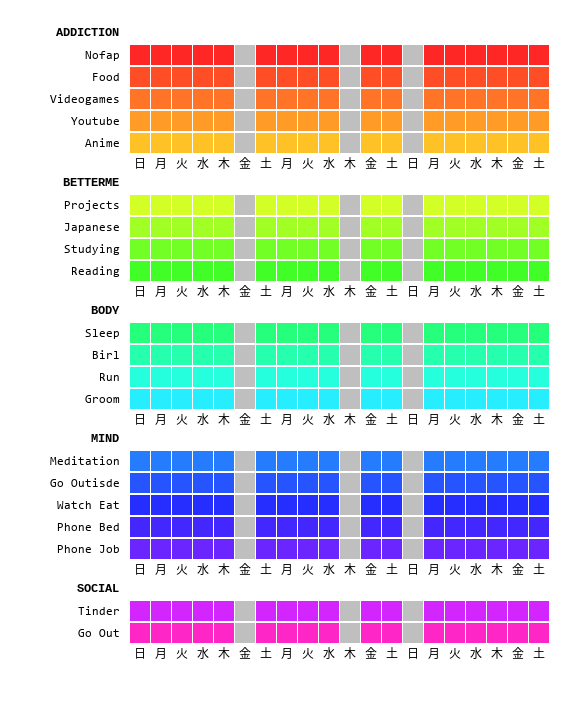
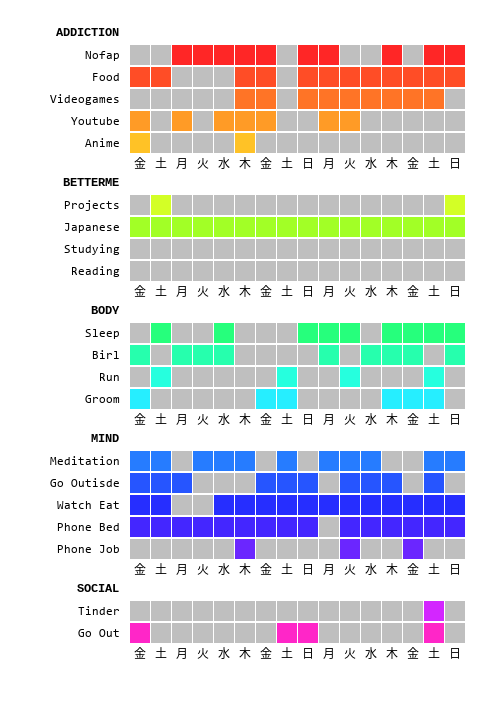
image reflecting data

Changed region(s): [[0.0916, 0.0299, 0.9776, 0.9559]]

diff --git a/imggen.py b/imggen.py
@@ -3,6 +3,7 @@ from PIL import Image, ImageFont, ImageDraw
 import matplotlib.colors as clr
 
 from utils import FlattenList, AlignRight, CycleIndex
+from core import GetHeaderData, GetDateArray, GetFailIndexesList, GetExpectedValue
 
 fontFamilies = {
     "consolas": r"assets\fonts\consola.ttf",
@@ -54,12 +55,11 @@ def GenerateYPositions(initialPosition: tuple, length: int, spacing: int, number
     return positions, positions[-1][1] + length + spacing - initialPosition[1]
 
 def WriteFooter(image, position: tuple, squareSize: int, squareBorder: int, squares: int, latestDate: str):
-    latestDate = '2022-06-04'
+    latestDate = '2022-06-05'
     # daysOfTheWeek = "STQQSSD"
     # daysOfTheWeek = "MTWTFSS"
     daysOfTheWeek = "月火水木金土日"
     todaysIndex = date.fromisoformat(latestDate).weekday()
-    print("todaysIndex", todaysIndex)
     for s in range(squares):
         Write(image,
               (position[0] + s * (squareSize + squareBorder), position[1]),
@@ -67,7 +67,7 @@ def WriteFooter(image, position: tuple, squareSize: int, squareBorder: int, squa
               (0, 0, 0),
               "noto")
 
-def WriteAll(image, categories: list, headerList: list, position: tuple, squares: int, sqrSize: int, sqrBorder: int, maxXDelta: int,
+def WriteAll(image, categories: list, headerList: list, frequencies: list, data, position: tuple, squares: int, sqrSize: int, sqrBorder: int, maxXDelta: int,
              textSquaresXSpacing: int, textSquaresYOffset: int, categoryYSpacing: int, categoryTextOffset: tuple):
 
     maxHeaderLen = max([len(h) for h in FlattenList(headerList)])
@@ -75,6 +75,7 @@ def WriteAll(image, categories: list, headerList: list, position: tuple, squares
     initialPos = [position[0], position[1]]
     footerTextOffset = (12, 6)
     hues = SegmentUnitIntoList(len(categories))
+    dateArray = GetDateArray(data, squares)
 
     for categoryIndex, category in enumerate(categories):
         categoryPositions, nextCategoryPosition = GenerateYPositions((initialPos[0], initialPos[1]), sqrSize, 2, len(headerList[categoryIndex]))
@@ -85,6 +86,10 @@ def WriteAll(image, categories: list, headerList: list, position: tuple, squares
               "liberation",
               12)
         for headerIndex, header in enumerate(headerList[categoryIndex]):
+            expectedValue = GetExpectedValue(header, headerList, frequencies)
+            headerData = GetHeaderData(data, dateArray, squares, header)
+            failList = GetFailIndexesList(headerData)
+            # print(header, headerData)
             hueOffset = 1.5 * (hues[1] - hues[0]) / (2 * len(headerList[categoryIndex]))
             Write(image,
                   categoryPositions[headerIndex],
@@ -96,7 +101,7 @@ def WriteAll(image, categories: list, headerList: list, position: tuple, squares
                               sqrSize,
                               sqrBorder,
                               squares,
-                              [5, 10, 13],
+                              failList,
                               # GetRGBColor(0.5, 0.75, 1)
                               # GetRGBColor(hues[categoryIndex], saturations[headerIndex], 1),
                               GetRGBColor(hues[categoryIndex] + headerIndex * hueOffset, 0.85, 1),
@@ -109,10 +114,11 @@ def WriteAll(image, categories: list, headerList: list, position: tuple, squares
                     squares,
                     '')
 
-def Draw(categories: list, header: list):
+def Draw(categories: list, header: list, frequencies: list, data):
     flatHeaderList = FlattenList(header)
     print("categories", categories)
     print("header", header)
+    print("data len", len(data.index))
     initialX = 75
     initialY = 75
     rows = len(flatHeaderList)
@@ -121,7 +127,7 @@ def Draw(categories: list, header: list):
 
     sqrSize = 20
     sqrBorder = 1
-    squares = 20
+    squares = min([20, len(data.index)])
 
     maxXDelta = TextListMaxLenToPixels(flatHeaderList)
 
@@ -135,6 +141,6 @@ def Draw(categories: list, header: list):
                    # rows * (rowsYSpacing + sqrSize + sqrBorder) + (categoriesLength - 1) * (categoryYSpacing - rowsYSpacing) + initialY)
                    rows * (rowsYSpacing + sqrSize + sqrBorder) + (categoriesLength - 1) * (categoryYSpacing + rowsYSpacing) + initialY)
     # DrawLineOfSquares(img, (2 * sqrSize, 2 * sqrSize), sqrSize, sqrBorder, days, [5, 10, 13], GetRGBColor(0.5, 0.75, 1), (150, 150, 150))
-    WriteAll(img, categories, header, (50, 50), squares, sqrSize, sqrBorder, maxXDelta, textSquaresXSpacing, textSquaresYOffset, categoryYSpacing, categoryTextOffset)
+    WriteAll(img, categories, header, frequencies, data, (50, 50), squares, sqrSize, sqrBorder, maxXDelta, textSquaresXSpacing, textSquaresYOffset, categoryYSpacing, categoryTextOffset)
     img.show()
     img.save(r'assets\data\test.png')

diff --git a/core.py b/core.py
@@ -248,7 +248,34 @@ def SaveSettingsFile(hueOffset: float, settingsFileName: str):
 
 #  Data Visualization
 
-# GetHeaderData(CleanDF(data), "Tinder"), True
-def GetHeaderData(data, header: str, returnDate: bool = False):
+def GetDateArray(data, squares: int):
+    latestDateIso = GetLatestDate(data)
+    latestDateValue = datetime.fromisoformat(latestDateIso)
+    result = [(latestDateValue + timedelta(days=-day)).strftime("%Y-%m-%d") for day in range(squares)]
+    return result
+
+def GetExpectedValue(header: str, headerList: list, frequencies: list):
+    frequency = GetMatrixDataByHeaderIndexes(frequencies, headerList, header)
+    direction = frequency.split(',')[0]
+    return False if direction == '>' else True
+
+def GetHeaderData(data, dateArray: list, squares: int, header: str, expectedValue: bool = True):
     columnHeader = ToLowerUnderScored(header)
-    return data[["date", columnHeader]] if returnDate else data[columnHeader].tolist()
+    headerData = data[["date", columnHeader]]
+    headerData = headerData.reset_index()
+
+    result = [not expectedValue for item in range(squares)]
+    for index, row in headerData.iterrows():
+        try:
+            if row["date"] in dateArray and row[columnHeader] == str(expectedValue):
+                result[index] = expectedValue
+        except:
+            continue
+    return result
+
+def GetFailIndexesList(headerData: list, expectedValue: bool = True):
+    result = []
+    for index, item in enumerate(headerData):
+        if item != expectedValue:
+            result.append(index)
+    return result

diff --git a/main.py b/main.py
@@ -42,7 +42,7 @@ try:
 
     VerifyHeaderAndData(header, variables, csvFileName, data)
     data = CreateEntry(data)
-    # Draw(categories, header)
+    # Draw(categories, header, frequencies, CleanDF(data))
     # PrintFonts()
     InitUi(settingsFileName)
     window = MainWindow(categories, header, descriptions, doneButtonText, styleButtonText, dataButtonText)
@@ -98,14 +98,14 @@ finally:
     log.close()
 
 # TODO LIST
+# FIX GREEN HSL?
+
 # DATA VISUALIZATION
-#   read data from data
-#   change square color based on data (True or False)
 #   have the image in memory
-#   button to export image
-#   n days back as a parameter
-#   performance: https://stackoverflow.com/a/71735508 and https://stackoverflow.com/a/71735508
-#   performance: also https://pillow.readthedocs.io/en/stable/handbook/tutorial.html#merging-images
+#   button to export image & show image
+#   n days back as a parameter (cfg file)
+#   performance?: https://stackoverflow.com/a/71735508 and https://stackoverflow.com/a/71735508
+#   performance?: also https://pillow.readthedocs.io/en/stable/handbook/tutorial.html#merging-images
 
 # EDIT DATA
 #   methods
@@ -122,6 +122,7 @@ finally:
 #       declining, but still good
 #       all bad
 #   compile code
-#   ui for variables
+#   remove unnecessary imports (from x import *)
+#   ui for variables, very nani
 #   improve style's ui
 #   have some sort of readme?
